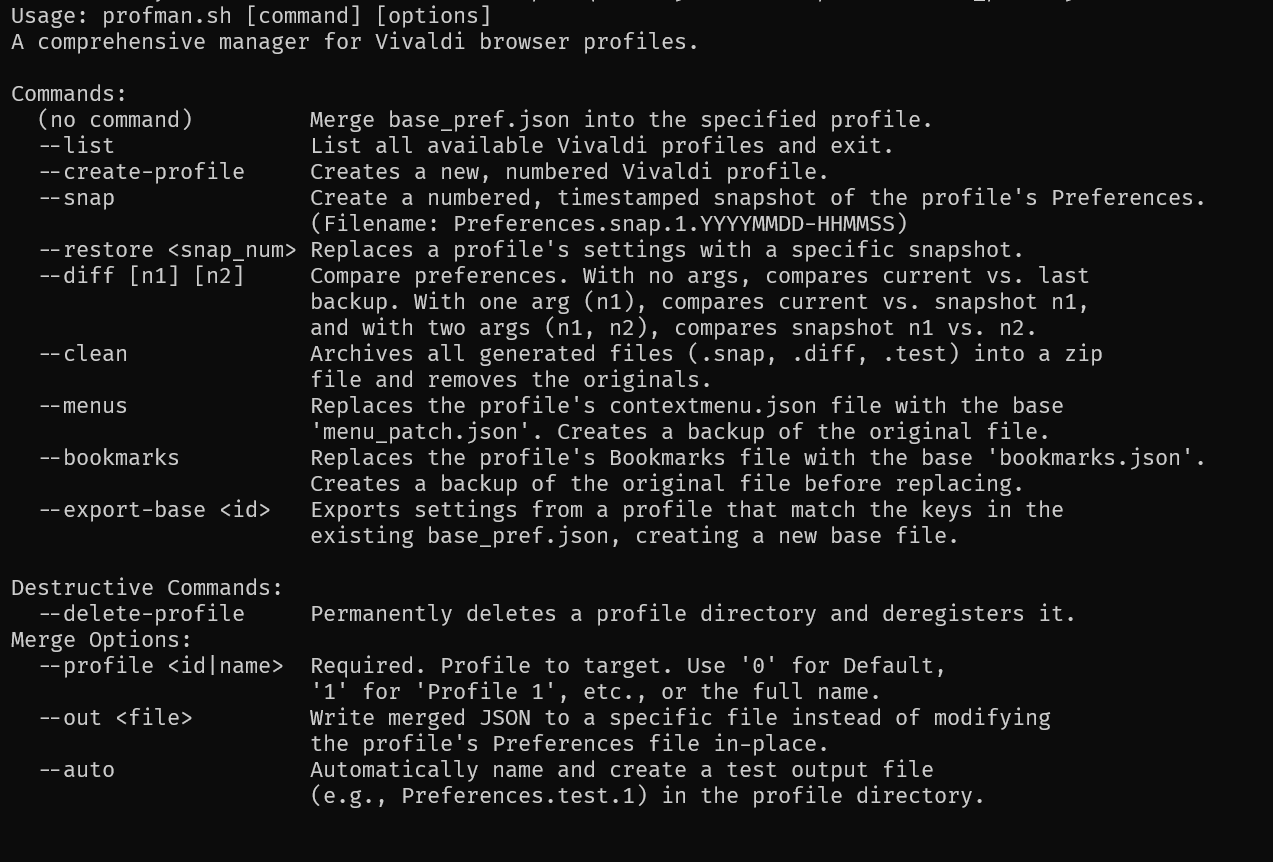
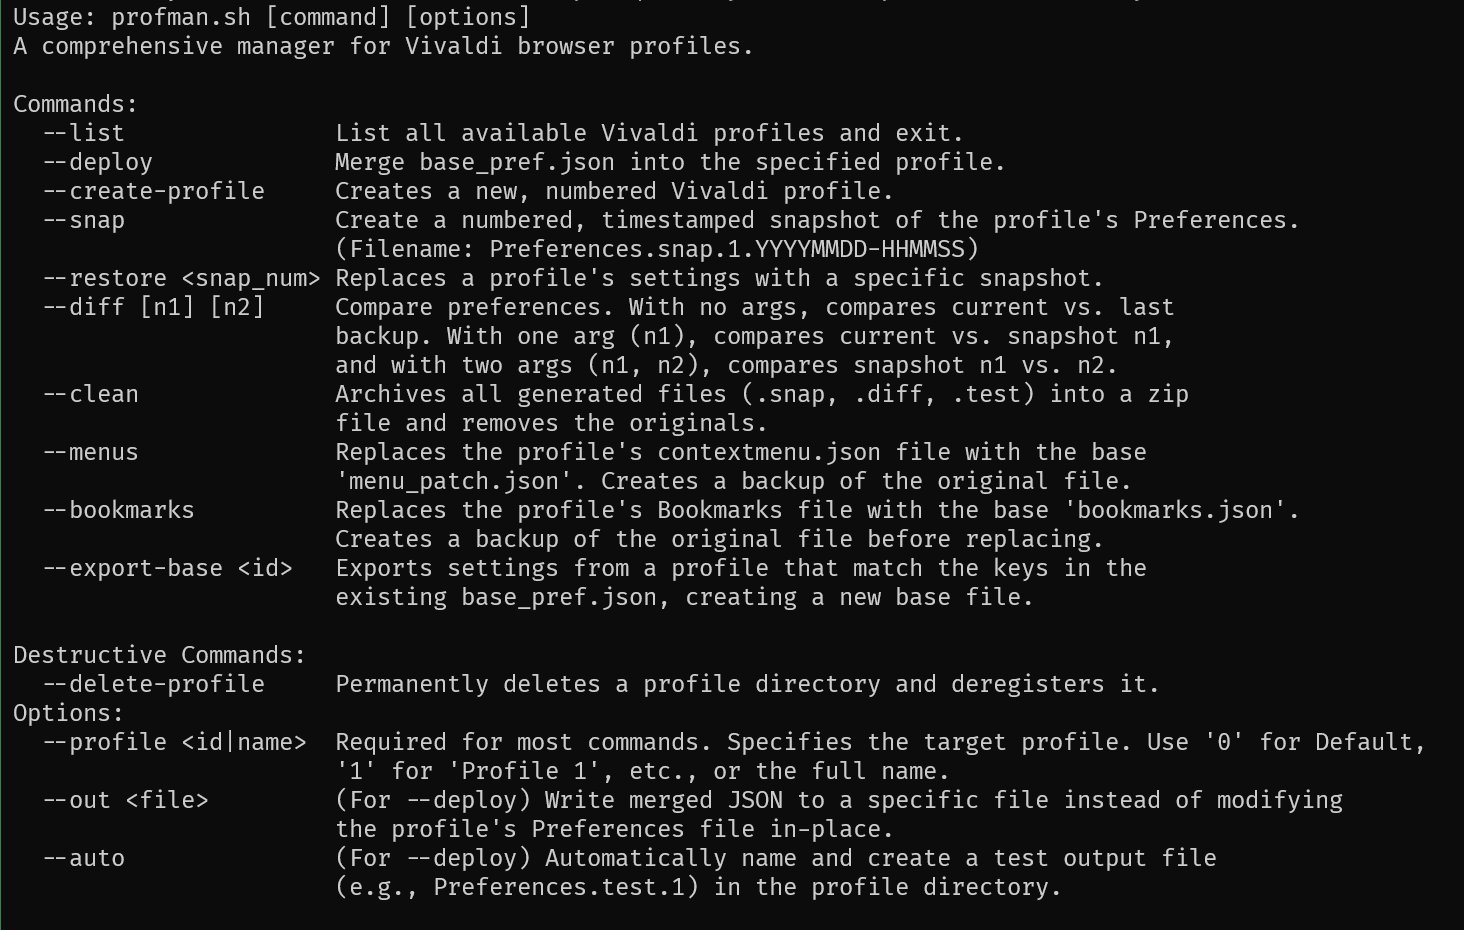
feat:introduced --deploy command to replace --profiles; breaking change

diff --git a/README.md b/README.md
@@ -4,9 +4,7 @@
 
 `profman.sh` is a powerful BASH command-line tool for managing Vivaldi browser profiles. It allows you to define a base set of preferences and apply them across multiple profiles, create and restore snapshots, manage bookmarks and context menus, and perform advanced operations like diffing configurations and creating/deleting profiles programmatically.
 
-* The default skeleton preferences for Profman create a clean debloated UX that you can deploy to all your profiles, or creat your own base template: *
-
-![ Default Setup ](imgs/clean.png)
+*Version 0.8 introduces a breaking change, please review the [CHANGELOG.md] for details*
 
 
 
@@ -19,6 +17,14 @@
 - **Settings Export**: Export the configuration from an existing profile to create a new base template.
 - **Housekeeping**: Clean up all generated backup and diff files into a single zip archive.
 - **Cross-Platform**: Works on Linux, macOS, and in WSL for Windows.
+
+## Default Skeleton
+
+The default skeleton preferences for Profman create a clean debloated UX that you can deploy to all your profiles: 
+
+![ Default Setup ](imgs/clean.png)
+
+
 
 ## Prerequisites
 
@@ -36,7 +42,7 @@ sudo apt-get install jq zip diffutils
 
 ## Important Notes
 
-**Portability**. Please note that this has only been tested (so far) on Debian, PopOS and WSL/Windows! If you have a BASH command prompt I strongly encourage you to run `./test.sh` to make sure all features pass on your OS before running actual commands.
+**Test For Portability**. Please note that this has only been tested (so far) on Debian, PopOS and WSL/Windows! If you have a BASH command prompt I strongly encourage you to run `./test.sh` to make sure all features pass on your OS before running actual commands.
 
 ![ Test Pass Image ](imgs/test.png)
 
@@ -88,11 +94,11 @@ All commands that operate on a profile require the `--profile` argument.
 
 ### Core Commands
 
-`(no command)`
-: The default action. Merges the settings from `base_pref.json` into the specified profile's `Preferences` file.
+`--deploy`
+: Merges the settings from `base_pref.json` into the specified profile's `Preferences` file.
   ```bash
   # Merge base settings into the Default profile
-  ./profman.sh --profile 0
+  ./profman.sh --profile 0 --deploy
   ```
 
 `--list`
@@ -174,7 +180,9 @@ All commands that operate on a profile require the `--profile` argument.
 
 ---
 
-### Merge Options
+### Deploy Options
+
+These options modify the behavior of the `--deploy` command.
 
 `--out <file>`
 : Writes the result of a merge to a specified file instead of modifying the profile's `Preferences` file in-place.
@@ -183,14 +191,14 @@ All commands that operate on a profile require the `--profile` argument.
 : A "dry run" mode. Automatically names and creates a test output file (e.g., `Preferences.test.1`) in the profile directory without modifying the original.
   ```bash
   # Do a dry run merge on Profile 2
-  ./profman.sh --profile 2 --auto
+  ./profman.sh --profile 2 --deploy --auto
   ```
 
 ## Example Workflow
 
 1.  **Initialize**: Run `./profman.sh --list` to generate your config files.
 2.  **Configure**: Open `base_pref.json` and customize the settings to your liking.
-3.  **Apply**: Run `./profman.sh --profile 0` to merge your settings into the Default profile.
+3.  **Apply**: Run `./profman.sh --profile 0 --deploy` to merge your settings into the Default profile.
 4.  **Snapshot**: Create a baseline snapshot: `./profman.sh --profile 0 --snap`.
 5.  **Use Vivaldi**: Launch Vivaldi, use the browser, and change some settings via the UI.
 6.  **Review Changes**: Close Vivaldi and run `./profman.sh --profile 0 --diff` to see exactly what settings were changed by your UI interactions.

diff --git a/CHANGELOG.md b/CHANGELOG.md
@@ -1,0 +1,21 @@
+# Changelog
+
+All notable changes to this project will be documented in this file.
+
+The format is based on [Keep a Changelog](https://keepachangelog.com/en/1.0.0/),
+and this project adheres to [Semantic Versioning](https://semver.org/spec/v2.0.0.html).
+
+## [0.8.0] - 2025-07-04
+
+### Changed
+
+-   **BREAKING**: The script's primary execution logic has been clarified to prevent accidental merges.
+    -   In version 0.7.x, running the script with only `--profile <id>` would implicitly execute the merge operation. This was confusing as `--profile` also acted as a parameter for other commands.
+    -   The merge action has been moved to an explicit `--deploy` command. The `--profile` flag now acts *only* as a parameter to specify a target profile and no longer triggers an action on its own.
+    -   **Example**: `_Old: ./profman.sh --profile 0_` is now `_New: ./profman.sh --profile 0 --deploy_`.
+
+## [0.7.0] - 2025-07-03
+
+### Added
+
+-   Initial release with core features: preference merging (via `--profile`), profile listing (`--list`), snapshots (`--snap`), diffing (`--diff`), and cleaning (`--clean`).
